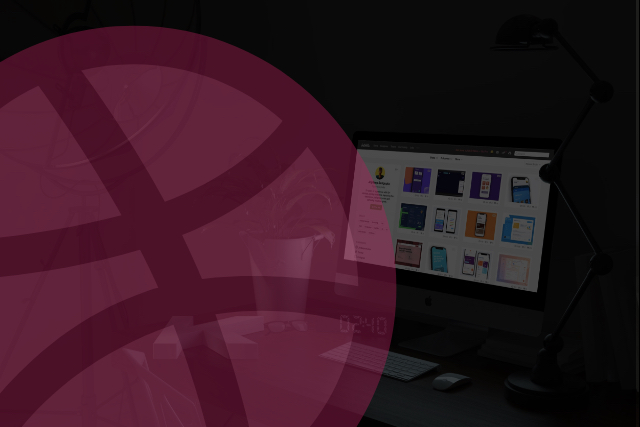
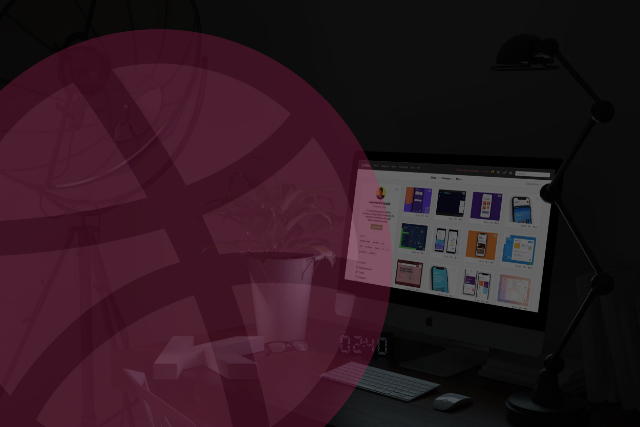
changes images

diff --git a/index.html b/index.html
@@ -150,7 +150,7 @@
 								</div>
 							</div>
 						</div>
-						<div class="lazyload lazyhide bg-cover img-cover" data-sizes="auto" data-bgset="https://joydeeproni.com/assets/img/other-2560x1707.jpg 2560w, https://joydeeproni.com/assets/img/other-1280x853.jpg 1280w, https://joydeeproni.com/assets/img/other-320x213.jpg 320w, https://joydeeproni.com/assets/img/other-640x427.jpg 640w"></div>
+						<div class="lazyload lazyhide bg-cover img-cover" data-sizes="auto" data-bgset="https://joydeeproni.com/assets/img/dribbble-2560x1707.jpg 2560w, https://joydeeproni.com/assets/img/dribbble-1280x853.jpg 1280w, https://joydeeproni.com/assets/img/dribbble-320x213.jpg 320w, https://joydeeproni.com/assets/img/dribbble-640x427.jpg 640w"></div>
 						<div class="animcover"></div>
 					</div>
 					<div id="project-20" class="project small-aspect-square project-item hide-title hide-nav-overlay text-bright" data-breadcrumb="Miscellaneous">
